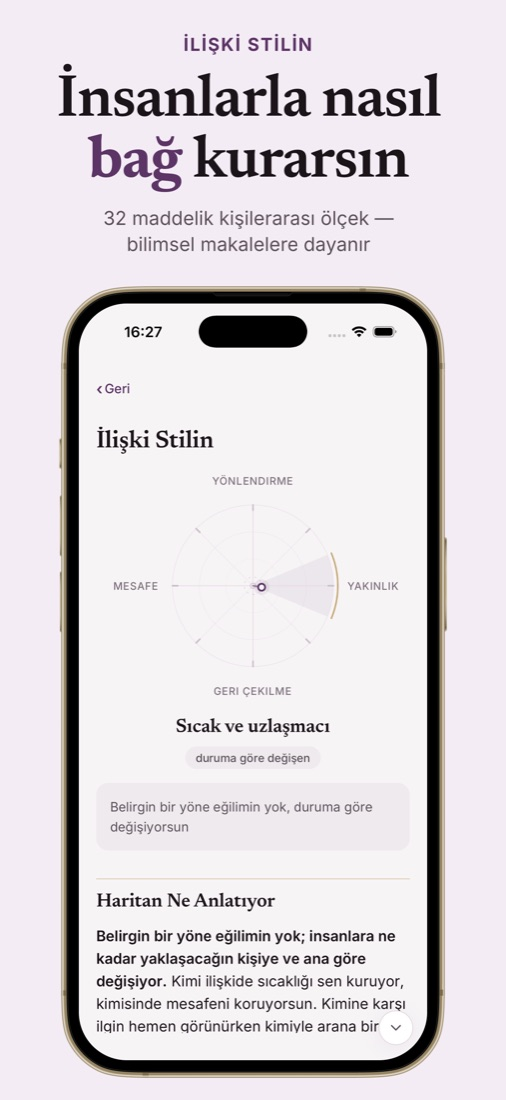
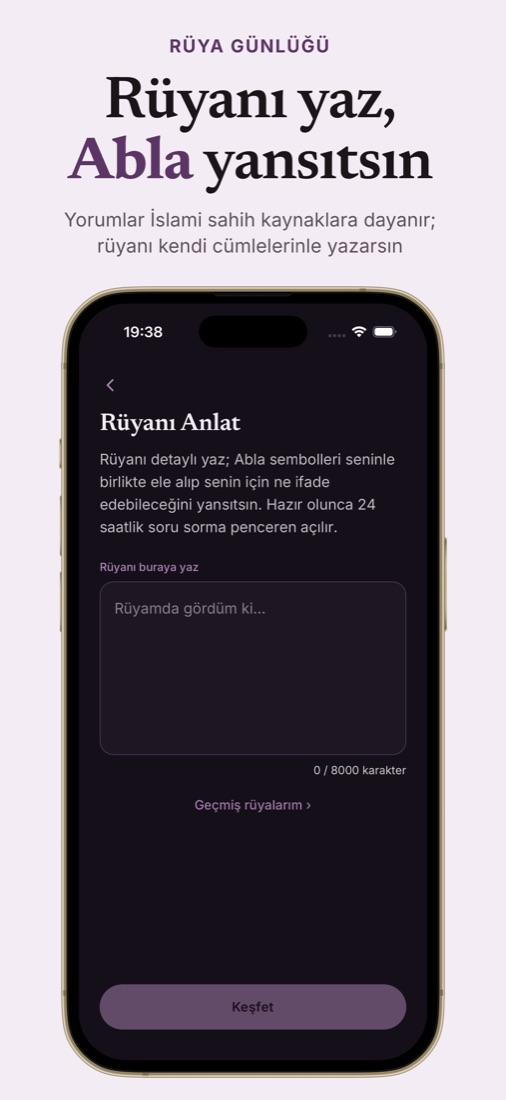
Nasıl çalışır şeridi 10 kareye çıktı, kaydırmalı oldu
Kaynak App Store destesinin kendisi; sıra oradaki slayt sırasıyla aynı:
hub → rüya → sohbet → ilişki → sekiz stil → ikiz → eşleşme → yolculuk
→ geçmiş → premium.

Şerit ≥768px'te aynı anda dört kare gösteriyor, bir basış bir kare
kaydırıyor. Adım genişliği ölçülüyor, sabit yazılmıyor — kare genişliği
kırılıma göre değişiyor (%60 → %40 → %25) ve sabit değer kırılım
sınırında yanlış yere kaydırırdı.

Kaydırma ray'in kendi overflow'u; sayfa scroll'una dokunulmuyor.
Oklar yalnız hover'lı ve geniş ekranlarda; dokunmatikte parmak, klavyede
ray odaklanınca ok tuşları çalışıyor. Uçtaki ok sönüyor ve tıklama
almıyor. PRM'de yumuşak kaydırma kapanıyor.

Alt metinler tek tek yazılmak yerine dizi oldu: on karenin her biri
ayrı bir ekran, ekran okuyucu hangisinde olduğunu bilmeli.

Claude-Session: https://claude.ai/code/session_017mpCQsV3uMcKzZfo4ASsPz

diff --git a/src/i18n/tr.ts b/src/i18n/tr.ts
@@ -45,15 +45,19 @@ export const tr = {
 
   // Play Store'daki mevcut tanıtım görselleri (adım 3) — alt metinler TASLAK
   screens: {
-    /* 25 Ağu: üç görsel de yenilendi. Eskiler el analizi raporu, koyu tema
-       ve o zamanki dört modüllü sürümü gösteriyordu; ikisi de artık yok.
-       Sıra "Nasıl çalışır" akışını izler: modülü seç → ölçümünü al → sor. */
-    welcomeAlt:
-      'Ablacım tanıtım görseli: Kendini Keşfet ekranı, gözlemler ve modül kartlarını gösteren uygulama ekranı',
-    reportAlt:
-      'Ablacım tanıtım görseli: ilişki stilini iki eksenli bir harita üzerinde gösteren ölçüm sonucu ekranı',
-    chatAlt:
-      'Ablacım tanıtım görseli: rüya yansımasının ardından Abla ile açılan sohbet ekranı',
+    // 25 Ağu: şerit 10 kareye çıktı; her karenin kendi alt metni var.
+    shots: [
+      'Kendini Keşfet ekranı: gözlemler, günün notu ve modül kartları',
+      'Rüyanı Anlat ekranı: rüyanın kendi cümlelerinle yazıldığı alan',
+      'Rüya sohbeti: yansımanın ardından Abla ile açılan soru penceresi',
+      'İlişki Stilin sonucu: iki eksenli harita üzerinde konumlanmış stil',
+      'Sekiz stil dağılımı: her stilin yüzdelik dilimi çubuklarla',
+      'Dijital ikiz ekranı: üç parçanın durumu ve Abla’nın gözünden portre',
+      'İkiz Eşleşmesi ekranı: paylaşılan kod ve arkadaş kodu girişi',
+      'Yolculuğun ekranı: ışık puanı halkası, basamak ve haftalık hedefler',
+      'Geçmişin ekranı: tarihleriyle sıralanmış ölçümler ve rüya yansımaları',
+      'Profil ekranı: premium üyelik kartı ve kalan haklar',
+    ],
   },
 
   // Abla'nın sesi burada duyulur (hitap 1/3: "kuzum")
@@ -252,6 +256,9 @@ export const tr = {
       'Sana özel hazırlanan haritanı ya da yansımanı alırsın.',
       'Aklına takılanı sohbette sorarsın; sonuç ikizine eklenir.',
     ],
+    stripLabel: 'Uygulama ekranları — yatay kaydırmalı şerit',
+    stripPrev: 'Önceki ekran',
+    stripNext: 'Sonraki ekran',
   },
 
   // Nötr; demo keşif dilinde, hitapsız, sahte kanıt cümlesi yok

diff --git a/src/i18n/en.ts b/src/i18n/en.ts
@@ -41,13 +41,19 @@ export const en: Dict = {
 
   // Play Store görselleri şu an Türkçe (EN varyant mağazada yok) — alt TASLAK
   screens: {
-    /* 25 Ağu: üç görsel de yenilendi — bkz. tr.ts'teki not. */
-    welcomeAlt:
-      'Ablacım promotional image: the Discover Yourself screen with observations and module cards',
-    reportAlt:
-      'Ablacım promotional image: a measurement result placing a relational style on a two-axis map',
-    chatAlt:
-      'Ablacım promotional image: the chat with Abla that opens after a dream reflection',
+    // 25 Ağu: şerit 10 kareye çıktı — bkz. tr.ts.
+    shots: [
+      'Discover Yourself screen: observations, note of the day and module cards',
+      'Tell Your Dream screen: the field where you write the dream yourself',
+      'Dream chat: the question window that opens with Abla after a reflection',
+      'Relational Style result: the style placed on a two-axis map',
+      'Eight style distribution: each style shown as a percentile bar',
+      'Digital twin screen: the three parts and a portrait through Abla’s eyes',
+      'Twin Match screen: your shared code and the field for a friend’s code',
+      'Your Journey screen: the light-point ring, step and weekly goals',
+      'Your History screen: measures and dream reflections listed with dates',
+      'Profile screen: the premium membership card and remaining credits',
+    ],
   },
 
   // Abla'nın sesi ("love" 1/2)
@@ -231,6 +237,9 @@ export const en: Dict = {
       'You receive the map or the reflection prepared just for you.',
       'You ask whatever stays on your mind in chat, and the result joins your twin.',
     ],
+    stripLabel: 'App screens — horizontally scrollable strip',
+    stripPrev: 'Previous screen',
+    stripNext: 'Next screen',
   },
 
   sohbetFarki: {
